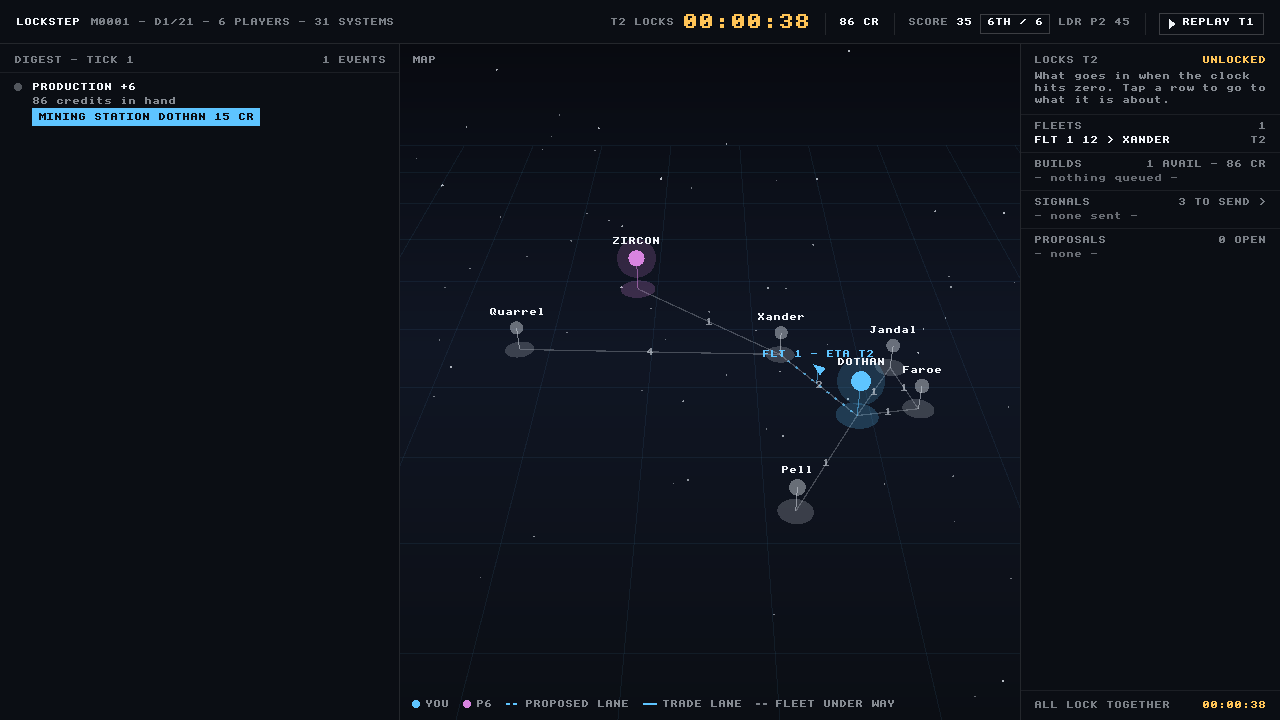
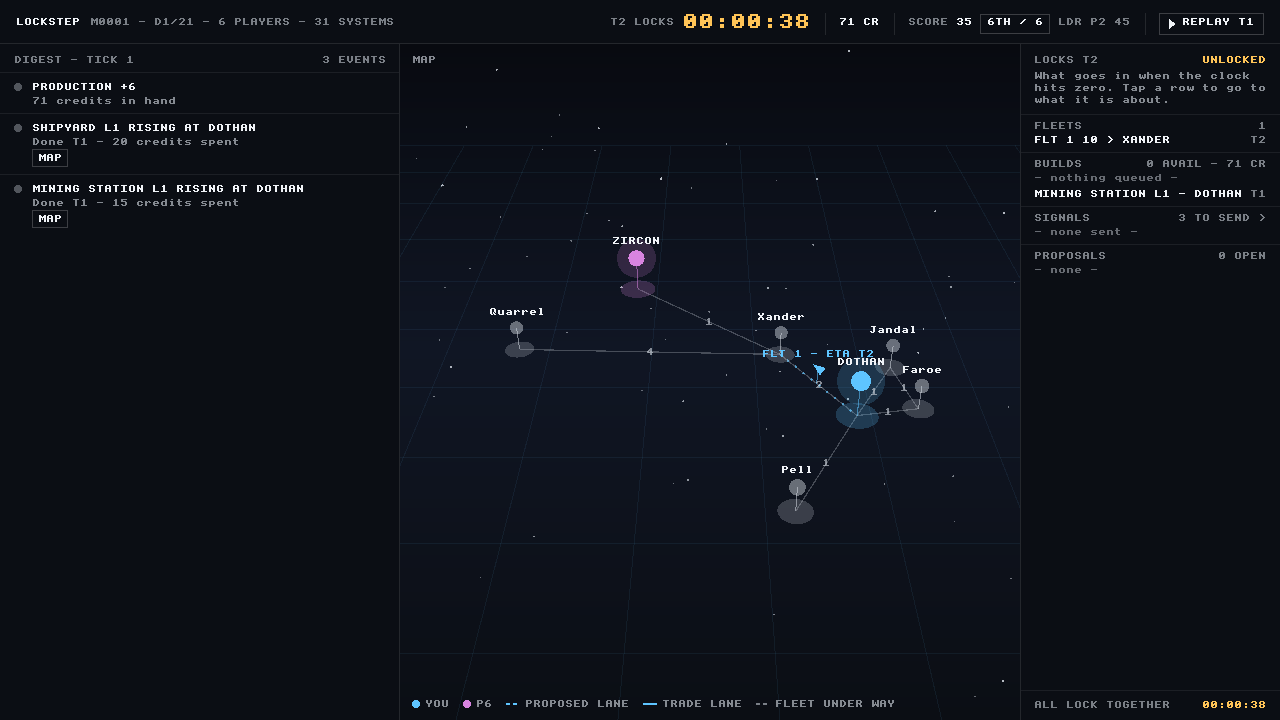
Retake the captures ADR-069 and ADR-070 made stale
`Design/UI/screens/` is the design record's evidence, so a change that moves a
pixel makes it stale, and 1cf2f8f left five of them that way: the desktop was
locked that session and a locked desktop makes every synthetic tap fail
silently. Retaken from the Debug build at 9b25816 by the recipe in README.md --
eighteen retaken, sixteen of them different.

New: `01-build-rising.png`, the state README.md named and the tree had no
capture of. It is photographed with the built system's sheet open, so all three
places a build in flight is said are in one frame: the rail's
`SHIPYARD L1 - DOTHAN` / `T5`, the sheet's row that will not take another order
(`DONE T5`), and the digest's `SHIPYARD L1 RISING AT DOTHAN` card, which reports
and offers nothing.

Byte for byte what they were, which is the check: `06-at-lock.png` and
`05-waiting-for-the-host.png` -- a locked tick-zero rail and a joiner with no
board yet, neither of which these changes reach. `03-join.png`,
`05-connecting.png` and the two refusals were not retaken at all: nothing has
touched JoinPage or ConnectionDialog since they were taken.

SCREENS.md was three passages behind the build, all three now read off the new
captures: the rail's BUILDS section lists what is rising after what is queued,
in the form FLEETS uses for a fleet under way; the build sheet names the level,
what it pays and how long it takes; and a system already building shows one row
[…]

diff --git a/Design/UI/README.md b/Design/UI/README.md
@@ -4,32 +4,32 @@ What the client shows, screen by screen, and how far each screen is built. The d
 2026-09-11 as a UI handoff — eight mockups at 1280×720, guidelines, a per-screen spec and a work
 plan ("v2", superseding the v1 `Design/Screens/`). Most of it has since been built, some of it
 deliberately not, and this directory is now the **design record for the client**, kept against the
-code in `LockstepClient/` and `Lockstep/`. Every status below is as of **2026-09-12** and was read
+code in `LockstepClient/` and `Lockstep/`. Every status below is as of **2026-09-13** and was read
 from the tree, not from the plan.
 
 ## Contents
 - `SCREENS.md` — per screen: what is built, what the design asked for that is not, and where the code is.
 - `DESIGN-GUIDELINES.md` — frame, font, palette, components, copy and map rules **as built**, with the design's intent kept where the build stops short of it.
-- `screens/` — **captures of the running client**, one per screen and state, taken 2026-09-12 from the Debug build of the tree at a4c9235 (PNG, 1280×720, the client area exactly as drawn). The eight mockups of 2026-09-11 are no longer in the tree (owner decision, 2026-09-12): the build superseded 03, 04, 05 and 06, and what the other four still asked for — the map's unbuilt details, screen 02, 07's step-through, 08's tabs — is kept in words under "What the design asks for that the tree does not have" and drawn in the live design reference below. The files themselves are in the history up to a4c9235. The table below names each capture.
+- `screens/` — **captures of the running client**, one per screen and state, taken 2026-09-12 from the Debug build of the tree at a4c9235 and retaken 2026-09-13 at 9b25816 wherever the changes since reach them (PNG, 1280×720, the client area exactly as drawn). The eight mockups of 2026-09-11 are no longer in the tree (owner decision, 2026-09-12): the build superseded 03, 04, 05 and 06, and what the other four still asked for — the map's unbuilt details, screen 02, 07's step-through, 08's tabs — is kept in words under "What the design asks for that the tree does not have" and drawn in the live design reference below. The files themselves are in the history up to a4c9235. The table below names each capture.
 - The handoff's work plan, `PROMPT.md`, is finished as far as it is going to be and lives in [`Design/Archive/2026-09-11-ui-v2-prompt.md`](../Archive/2026-09-11-ui-v2-prompt.md) with a note per step. ADR-034, ADR-038 and ADR-039 cite it by its old name.
 - Live design reference: the project file `Frontier Outpost Main Page.dc.html` (all mockups on one canvas, and since 2026-09-12 the only place they are drawn; design reference, not production code). **The filename predates the rename to LockStep: Universe and is deliberately left alone** — the file lives outside this repository, so renaming it here would break the pointer without renaming anything (ADR-035).
 
 Built from the one-pager (`Design/Archive/space-4x-one-pager-v10.md` since 2026-09-13), ADR-014
 (interface layer), ADR-027 (owner colours), ADR-028/029 (roles, tokens) and the decisions since:
-ADR-034 (what the handoff left open) and ADR-036 through ADR-066, which are cited where they apply.
+ADR-034 (what the handoff left open) and ADR-036 through ADR-071, which are cited where they apply.
 
 ## Screens
 
 | # | Screen | Status | In `screens/` | Code |
 |---|---|---|---|---|
-| 01 | Main page — digest as order surface, map, locks rail | **Built** (ADR-034; then 045, 052, 053, 055–066) | `01-main-page.png` (tick 2 of a practice match: a contact, a claim with its priced build, production), `01-orders-queued.png` (tick 0: a move ordered and a build queued, before the lock), `01-fleet-under-way.png` (tick 1: the route and its marker), `01-rail-hover.png` (the locks rail with the pointer on a row, ADR-060), the sheets `01-build-sheet.png`, `01-destination-sheet.png`, `01-signal-sheet.png` and `01-signal-sheet-armed.png` (the concede armed under its band, ADR-064), and `01-finished.png`. The map's unbuilt details are item 6 below | `LockstepClient/MainPage.cpp`, `DigestView.cpp`, `MapRender.cpp` |
+| 01 | Main page — digest as order surface, map, locks rail | **Built** (ADR-034; then 045, 052, 053, 055–066) | `01-main-page.png` (tick 2 of a practice match: a contact, a claim with its priced build, production), `01-orders-queued.png` (tick 0: a move ordered and a build queued, before the lock), `01-fleet-under-way.png` (tick 1: the route and its marker), `01-rail-hover.png` (the locks rail with the pointer on a row, ADR-060), the sheets `01-build-sheet.png`, `01-destination-sheet.png`, `01-signal-sheet.png` and `01-signal-sheet-armed.png` (the concede armed under its band, ADR-064), `01-build-rising.png` (a build in flight, one frame carrying all three places it is said: the rail's row, the sheet that will not take another order, and the digest's card, ADR-070), and `01-finished.png`. The map's unbuilt details are item 6 below | `LockstepClient/MainPage.cpp`, `DigestView.cpp`, `MapRender.cpp` |
 | 02 | Share tick — 480×640 export | **Not built.** No button, no export; ADR-034 §2 says clipboard-only if it is ever built, and its open question asks whether it should be | none; the mockup that was the target, if it stays one, is in the design file and the history | — |
 | 03 | Join | **Built** (ADR-034 §3, ADR-041) | `03-join.png` | `LockstepClient/JoinPage.cpp`, `NeuronClient/TextField.h` |
 | 04 | Connection lost | **Built** (ADR-038, ADR-043) | `04-connection-lost.png` | `LockstepClient/ConnectionDialog.cpp` |
 | 05 | Connection states | **Built** as one component with seven states. The WELCOME dialog is not one of them | `05-connecting.png`, `05-refused-unknown-token.png`, `05-refused-seat-in-use.png`, `05-waiting-for-the-host.png`, `05-match-finished.png` | `LockstepClient/ConnectionDialog.cpp` |
 | 06 | At lock | **Built** (ADR-039, ADR-065) | `06-at-lock.png`, `06-at-lock-sheet.png` (a sheet left open across the lock: dim rows, the `LOCKED` chip in its header, the rail's sentence in amber) | `LockstepClient/MainPage.cpp` |
 | 07 | Replay — phase step-through | **Stub**, and its title says so (`REPLAY TICK 7 - NOT YET WIRED`). A sheet listing the six phases; nothing steps | `07-replay.png` is the stub as built; the step-through the mockup drew is item 2 below, its centred panel superseded by the sheet (ADR-052) | `MainPage::DrawPanel` |
-| 08 | Missed digests | **Partial.** The backlog is kept and concatenated (ADR-044) and its repeats are folded (ADR-062); no tabs | `08-missed-digests.png` (`SINCE YOU LOOKED - T1 > T7`, the delta box, and two folded `PRODUCTION +18 - T1 > T7` cards); the tabs the mockup drew are item 3 below | `Lockstep/Lockstep.cpp` (match loop), `DigestView.cpp` |
+| 08 | Missed digests | **Partial.** The backlog is kept and concatenated (ADR-044) and its repeats are folded (ADR-062); no tabs | `08-missed-digests.png` (`SINCE YOU LOOKED - T1 > T7`, the delta box, two actor cards and a folded `PRODUCTION +18 - T1 > T7`); the tabs the mockup drew are item 3 below | `Lockstep/Lockstep.cpp` (match loop), `DigestView.cpp` |
 | 09 | Seats — the host's lobby | **Built**, and not in the handoff (ADR-036, 037, 041, 051, 066) | `09-seats.png` (the host alone), `09-seats-joined.png` (a second seat connected and selected, and the three-way on every card) | `Lockstep/SeatsPage.cpp` |
 
 Also built with no mockup, all described in `SCREENS.md` and all captured but one: the four
@@ -109,22 +109,23 @@ starts with twenty credits and that missed digests are one tick deep; none was t
 it was corrected on 2026-09-12. (Rail rows became links later the same day — ADR-060 — so that first
 claim is true again, of a different mechanism: a row links to the thing it names, not to an event.)
 
-**Five captures are out of date as of 2026-09-13**, and are listed here rather than quietly left to
-look current: `01-build-sheet.png`, `01-orders-queued.png`, `01-main-page.png` and
-`01-rail-hover.png` predate ADR-069 and ADR-070 — the sheet now names the level a row would build
-and what it costs in ticks, a system already building shows one row that is not a target, and the
-rail lists what is rising with its ETA — and there is no capture at all of a build in flight
-(`01-build-rising.png`, which the list below says how to stage). They could not be retaken in the
-session that changed them: the desktop was locked, and a locked desktop makes every synthetic tap
-fail silently.
+**Every capture is current as of 2026-09-13.** The five ADR-069 and ADR-070 had left stale were
+retaken that day from the Debug build at 9b25816, on an unlocked desktop, along with every other
+state those changes reach: eighteen retaken, sixteen of them different, and `01-build-rising.png`
+staged for the first time. The two that came back byte for byte what they were are
+`06-at-lock.png` and `05-waiting-for-the-host.png` — a locked tick-zero rail and a joiner with no
+board yet, which neither change reaches — and that is the check. `03-join.png`,
+`05-connecting.png` and the two refusals were left alone: nothing has touched `JoinPage` or
+`ConnectionDialog` since they were taken.
 
 ## Photographing the build
 
 Done on 2026-09-12: every screen and state above was captured from the Debug build of the tree at
 a4c9235, and the eight mockups left `screens/` the same day — the four the build had superseded and
 the four whose targets the list above keeps in words. Every capture the eight changes of ADR-060 to
-ADR-066 touched was retaken the same day from the Debug build carrying them. What is known about
-doing it, measured on 2026-09-12:
+ADR-066 touched was retaken the same day from the Debug build carrying them. Done again on
+2026-09-13 for ADR-069 and ADR-070, by the same recipe. What is known about doing it, measured on
+2026-09-12 and confirmed on 2026-09-13:
 
 - `Build/Screenshot.ps1 -Exe x64\Debug\Lockstep.exe -Out shot.png -Arguments "--tick 4 --store scratch"`
   captures the client area (DPI-aware, cropped to the 1280×720) and gets you screen 03 as it opens.
@@ -138,14 +139,18 @@ doing it, measured on 2026-09-12:
   sheet's `CANCEL` bar (700, 688); the `SIGNALS` header on a fresh rail (1150, 201). The filled
   build button moves with the digest — scan column x=40 for solid blue, as `TapBuild` does. **The
   `SIGNALS` header moves too**: it sits under BUILDS, so a queued build or a second fleet pushes it
-  down 16 pixels a line, and 201 is only right on an opening rail.
+  down 16 pixels a line, and 201 is only right on an opening rail. Since ADR-069 put the level in
+  the title a queued build wraps onto a second line and costs 28, not 16: measured at 229 with one
+  build queued and 257 with two on 2026-09-13, where a tap at 201 silently opened that build's
+  sheet instead and photographed the wrong screen.
 - **The rail's hover is read back, not eyeballed** (ADR-060). `HOVER_FILL` is white at 20/255 over
   the ink, which lands on `30,33,38` against a background of `11,14,20` — plain in place and easy to
   miss in a thumbnail, so a capture script should assert the pixel. Measured that way on 2026-09-12,
   and it is what found that a moving mouse produces no `WM_POINTERUPDATE` at all.
 - `01-build-rising.png` is a practice match one tick after queuing a level: PRACTICE MATCH, tap a
   held system, queue the top row, let one lock pass. The rail then carries the rising row and the
-  same system's sheet offers nothing (ADR-070).
+  same system's sheet offers nothing (ADR-070). Tap the system again before photographing it, so
+  the sheet, the rail row and the digest's card are all in the one frame.
 - States: 09 = JOIN as the host; 01 = PRACTICE MATCH (`--tick 4` overrides the preset's two
   minutes); the sheets = a held system on the map, `MOVE`/`REDIRECT`, the `SIGNALS` header, `REPLAY`;
   06 = a `--serve` process suspended past a lock (`NtSuspendProcess`); 04 = that process killed;

diff --git a/Design/UI/SCREENS.md b/Design/UI/SCREENS.md
@@ -1,11 +1,12 @@
 # Screens
 
 Per screen: what the build draws, what the 2026-09-11 handoff asked for that it does not, and where
-the code is. Status is as of 2026-09-12, and each heading names its capture in `screens/`, taken
-that day; the handoff's mockups are no longer in the tree (`README.md` says where they went).
-Numbers 01–08 are the handoff's; 09 was added by ADR-036 and sits between 03 and 01 in the flow
-(`README.md` draws it). "Not built" is stated as such, and nothing below is in the present tense
-unless the tree does it.
+the code is. Status is as of 2026-09-13, and each heading names its capture in `screens/`; every
+capture ADR-069 and ADR-070 touched was retaken that day from the Debug build carrying them, and the
+join and connecting screens are 2026-09-12's, which nothing since has moved. The handoff's mockups
+are no longer in the tree (`README.md` says where they went). Numbers 01–08 are the handoff's; 09
+was added by ADR-036 and sits between 03 and 01 in the flow (`README.md` draws it). "Not built" is
+stated as such, and nothing below is in the present tense unless the tree does it.
 
 ## 01 · Main page — **built** (`01-main-page.png` is the capture, tick 2 of a practice match)
 
@@ -33,7 +34,9 @@ system. When no card offers a real control the standing moves go on the leading 
 `BUILD` and up to two `MOVE FLT n` (ADR-056); before the first lock the digest is one card,
 `NOTHING HAS HAPPENED YET`, carrying them. Build buttons show `- QUEUED` (outlined blue) and
 `- NEED 7 MORE` (dim, inert) per ADR-053, and name the LEVEL they would build —
-`MINING STATION L2 JANDAL 30 CR` (ADR-069). An **answered proposal** reads `ACCEPTED` or `DECLINED` in
+`MINING STATION L2 JANDAL 30 CR` (ADR-069); a build already in flight is a card that reports and
+offers nothing, `SHIPYARD L1 RISING AT DOTHAN` / *Done T5 - 20 credits spent*, `MAP` its only
+action (ADR-070). An **answered proposal** reads `ACCEPTED` or `DECLINED` in
 the past tense on the button that was pressed, outlined blue like a queued build, with the other
 button still imperative and still tappable, so changing an answer before the lock is one tap
 (ADR-068); each card answers the offer its digest entry names, so two open offers no longer share
@@ -67,9 +70,11 @@ for that draws it in the middle. `01-orders-queued.png` is the ordered-but-unloc
 **Locks rail (260px, right) — orders no order, links to all of them (`DrawLocksRail`).** `LOCKS T8`
 / `UNLOCKED` (amber); one line of help; sections `FLEETS n` (rows `FLT 1 10 > PELL` with `T9`, or
 `FLT 1 10 HOLD DOTHAN` with `HOLD`, `+DEF` in blue when it is the incumbent), `BUILDS 2 AVAIL - 26
-CR` (queued rows `SHIPYARD - PELL` / `QUEUED -20`, a `- 6 cr left at the lock -` line, `- nothing
-queued -` otherwise), `SIGNALS 9 TO SEND >` (rows `SENDING`, a concede in red), `PROPOSALS 1 OPEN`
-(rows `P3 LANE` / `3 TICKS` amber). Footer `ALL LOCK TOGETHER` + the countdown.
+CR` (queued rows `SHIPYARD L1 - PELL` / `QUEUED -20`, then a row per build already rising,
+`SHIPYARD L1 - DOTHAN` / `T5` in muted ink — the form FLEETS uses for a fleet under way, ADR-070 —
+a `- 6 cr left at the lock -` line, `- nothing queued -` otherwise), `SIGNALS 9 TO SEND >` (rows
+`SENDING`, a concede in red), `PROPOSALS 1 OPEN` (rows `P3 LANE` / `3 TICKS` amber). Footer
+`ALL LOCK TOGETHER` + the countdown.
 
 **Rows are links (ADR-060).** A BUILDS row opens the build sheet for the system its build is on; a
 FLEETS row focuses where the fleet stands, or opens the destination picker when it is under way; a
@@ -86,10 +91,13 @@ seventh reported. No mockup exists for any of them; the captures are `01-build-s
 `01-destination-sheet.png`, `01-signal-sheet.png`, `01-signal-sheet-armed.png`, `07-replay.png`
 and, for a sheet left open across the lock, `06-at-lock-sheet.png`.
 - **Build** (`BUILD - DOTHAN`): opened by tapping a system you hold; lists that system's buildings
-  and nothing else (ADR-058) — `Shipyard - Dothan` with `20 CR`, or `QUEUED`, or
-  `20 CR - NEED 7 MORE` dim; a system with both built says `NOTHING LEFT TO BUILD HERE`; a system you
-  do not hold opens no sheet and only focuses. Tapping a row queues or unqueues (ADR-053's guard
-  refuses what the purse cannot cover).
+  and nothing else (ADR-058) — `Shipyard L1 - Dothan`, what that level pays and how long it takes
+  under it (`+2 ships a tick - 1 tick`), and `20 CR` on the right (ADR-070), or `QUEUED`, or
+  `20 CR - NEED 7 MORE` dim; a system already building shows that one row instead — `It cannot take
+  another order until this lands` / `DONE T5`, not a target (`01-build-rising.png`) — and a system
+  with both built says `NOTHING LEFT TO BUILD HERE`; a system you do not hold opens no sheet and
+  only focuses. Tapping a row queues or unqueues (ADR-053's guard refuses what the purse cannot
+  cover).
 - **Destination** (`MOVE FLT 1 - PICK LANE`): opened by `MOVE`/`REDIRECT` on a card or by tapping
   your fleet's marker; one row per lane out of where the fleet is or is going: owner square,
   `PELL`, `UNCLAIMED` / `YOURS` / `P3` with the hostile ships standing there and `+DEF` appended
